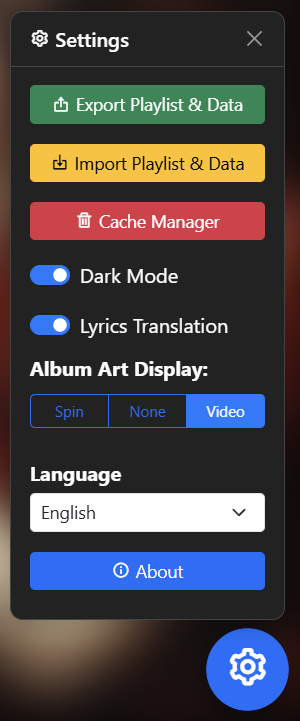
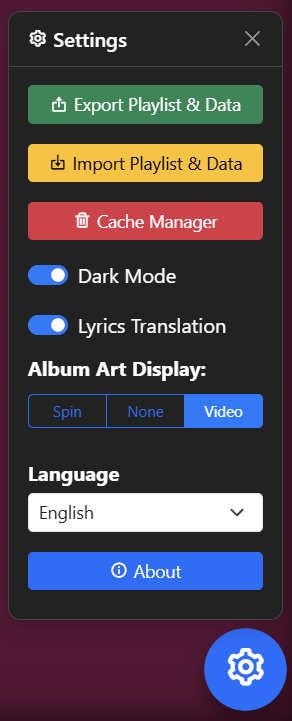
Update default playlist and configure Android splash window settings

diff --git a/android_build/www/script.js b/android_build/www/script.js
@@ -452,15 +452,15 @@ function loadPlaylist() {
     } else {
         // Default playlist if local storage is empty
         playlist = [
-            { videoId: 'oWRCXGvcU9s', songName: '愛くださいませ', authorName: 'NOT EQUAL ME', albumArt: 'https://i.ytimg.com/vi/oWRCXGvcU9s/hqdefault.jpg' },
-            { videoId: 'IBWxJxQxSHE', songName: '≠ME', authorName: 'NOT EQUAL ME', albumArt: 'https://i.ytimg.com/vi/IBWxJxQxSHE/hqdefault.jpg', lyricsTimeOffset: -3.0 },
-            { videoId: 'bi__z02xRgo', songName: 'チョコレートメランコリー', authorName: 'NOT EQUAL ME', albumArt: 'https://i.ytimg.com/vi/bi__z02xRgo/hqdefault.jpg' },
-            { videoId: '2RdTOBmz6jY', songName: '排他的ファイター', authorName: 'NOT EQUAL ME', albumArt: 'https://i.ytimg.com/vi/2RdTOBmz6jY/hqdefault.jpg', lyricsTimeOffset: -5.5 },
+            { videoId: 'sb_UQxk18Cc', songName: 'History Of The Band (OFFICIAL HIGE DANDISM LIVE at STADIUM 2025)', authorName: 'OFFICIAL HIGE DANDISM - Topic', albumArt: 'https://i.ytimg.com/vi/sb_UQxk18Cc/hqdefault.jpg', },
+            { videoId: 'uZtZ0Wvy3N8', songName: 'Official髭男dism - Stand By You [Official Live Video]', authorName: 'Official髭男dism', albumArt: 'https://i.ytimg.com/vi/uZtZ0Wvy3N8/hqdefault.jpg', },
+            { videoId: 'Hkd6NqfJsXE', songName: 'ノーダウト (OFFICIAL HIGE DANDISM LIVE at STADIUM 2025)', authorName: 'OFFICIAL HIGE DANDISM - Topic', albumArt: 'https://i.ytimg.com/vi/Hkd6NqfJsXE/hqdefault.jpg', },
             { videoId: 'TQ8WlA2GXbk', songName: 'Official髭男dism - Pretender［Official Video］', authorName: 'Official髭男dism', albumArt: 'https://i.ytimg.com/vi/TQ8WlA2GXbk/hqdefault.jpg' },
             { videoId: '0sDmhAItwbI', songName: 'Official髭男dism - Pretender (Acoustic ver.)［Official Video］', authorName: 'Official髭男dism', albumArt: 'https://i.ytimg.com/vi/0sDmhAItwbI/hqdefault.jpg', lyricsTimeOffset: 17.5 },
             { videoId: '22mOCjkwQjM', songName: 'Official髭男dism - Stand By You［Official Video］', authorName: 'Official髭男dism', albumArt: 'https://i.ytimg.com/vi/22mOCjkwQjM/hqdefault.jpg', lyricsTimeOffset: -2.0 },
             { videoId: '1oYzKnVG1Vk', songName: 'Official髭男dism - Stand By You (Acoustic ver.)［Official Video］', authorName: 'Official髭男dism', albumArt: 'https://i.ytimg.com/vi/1oYzKnVG1Vk/hqdefault.jpg', lyricsTimeOffset: -2.0 },
             { videoId: 'pkoxFpmiCWo', songName: 'Official髭男dism - パラボラ［Official Video］', authorName: 'Official髭男dism', albumArt: 'https://i.ytimg.com/vi/pkoxFpmiCWo/hqdefault.jpg' },
+            { videoId: '-kgOFJG881I', songName: 'Official髭男dism - 宿命［Official Video］', authorName: 'Official髭男dism', albumArt: 'https://i.ytimg.com/vi/-kgOFJG881I/hqdefault.jpg' },
             { videoId: 'ArjJj4cuOVo', songName: 'Laughter (ONLINE LIVE 2020 - Arena Travelers -)', authorName: 'OFFICIAL HIGE DANDISM - Topic', albumArt: 'https://i.ytimg.com/vi/ArjJj4cuOVo/hqdefault.jpg' },
             { videoId: 'cqzyiJE4SQE', songName: '笑顔の待つ場所', authorName: 'Official髭男dism', albumArt: 'https://i.ytimg.com/vi/cqzyiJE4SQE/hqdefault.jpg' },
             { videoId: 'P1iOKxg6JQk', songName: '明け方のゲッタウェイ (Live)', authorName: 'Official髭男dism', albumArt: 'https://i.ytimg.com/vi/P1iOKxg6JQk/hqdefault.jpg' },

diff --git a/script.js b/script.js
@@ -452,15 +452,15 @@ function loadPlaylist() {
     } else {
         // Default playlist if local storage is empty
         playlist = [
-            { videoId: 'oWRCXGvcU9s', songName: '愛くださいませ', authorName: 'NOT EQUAL ME', albumArt: 'https://i.ytimg.com/vi/oWRCXGvcU9s/hqdefault.jpg' },
-            { videoId: 'IBWxJxQxSHE', songName: '≠ME', authorName: 'NOT EQUAL ME', albumArt: 'https://i.ytimg.com/vi/IBWxJxQxSHE/hqdefault.jpg', lyricsTimeOffset: -3.0 },
-            { videoId: 'bi__z02xRgo', songName: 'チョコレートメランコリー', authorName: 'NOT EQUAL ME', albumArt: 'https://i.ytimg.com/vi/bi__z02xRgo/hqdefault.jpg' },
-            { videoId: '2RdTOBmz6jY', songName: '排他的ファイター', authorName: 'NOT EQUAL ME', albumArt: 'https://i.ytimg.com/vi/2RdTOBmz6jY/hqdefault.jpg', lyricsTimeOffset: -5.5 },
+            { videoId: 'sb_UQxk18Cc', songName: 'History Of The Band (OFFICIAL HIGE DANDISM LIVE at STADIUM 2025)', authorName: 'OFFICIAL HIGE DANDISM - Topic', albumArt: 'https://i.ytimg.com/vi/sb_UQxk18Cc/hqdefault.jpg', },
+            { videoId: 'uZtZ0Wvy3N8', songName: 'Official髭男dism - Stand By You [Official Live Video]', authorName: 'Official髭男dism', albumArt: 'https://i.ytimg.com/vi/uZtZ0Wvy3N8/hqdefault.jpg', },
+            { videoId: 'Hkd6NqfJsXE', songName: 'ノーダウト (OFFICIAL HIGE DANDISM LIVE at STADIUM 2025)', authorName: 'OFFICIAL HIGE DANDISM - Topic', albumArt: 'https://i.ytimg.com/vi/Hkd6NqfJsXE/hqdefault.jpg', },
             { videoId: 'TQ8WlA2GXbk', songName: 'Official髭男dism - Pretender［Official Video］', authorName: 'Official髭男dism', albumArt: 'https://i.ytimg.com/vi/TQ8WlA2GXbk/hqdefault.jpg' },
             { videoId: '0sDmhAItwbI', songName: 'Official髭男dism - Pretender (Acoustic ver.)［Official Video］', authorName: 'Official髭男dism', albumArt: 'https://i.ytimg.com/vi/0sDmhAItwbI/hqdefault.jpg', lyricsTimeOffset: 17.5 },
             { videoId: '22mOCjkwQjM', songName: 'Official髭男dism - Stand By You［Official Video］', authorName: 'Official髭男dism', albumArt: 'https://i.ytimg.com/vi/22mOCjkwQjM/hqdefault.jpg', lyricsTimeOffset: -2.0 },
             { videoId: '1oYzKnVG1Vk', songName: 'Official髭男dism - Stand By You (Acoustic ver.)［Official Video］', authorName: 'Official髭男dism', albumArt: 'https://i.ytimg.com/vi/1oYzKnVG1Vk/hqdefault.jpg', lyricsTimeOffset: -2.0 },
             { videoId: 'pkoxFpmiCWo', songName: 'Official髭男dism - パラボラ［Official Video］', authorName: 'Official髭男dism', albumArt: 'https://i.ytimg.com/vi/pkoxFpmiCWo/hqdefault.jpg' },
+            { videoId: '-kgOFJG881I', songName: 'Official髭男dism - 宿命［Official Video］', authorName: 'Official髭男dism', albumArt: 'https://i.ytimg.com/vi/-kgOFJG881I/hqdefault.jpg' },
             { videoId: 'ArjJj4cuOVo', songName: 'Laughter (ONLINE LIVE 2020 - Arena Travelers -)', authorName: 'OFFICIAL HIGE DANDISM - Topic', albumArt: 'https://i.ytimg.com/vi/ArjJj4cuOVo/hqdefault.jpg' },
             { videoId: 'cqzyiJE4SQE', songName: '笑顔の待つ場所', authorName: 'Official髭男dism', albumArt: 'https://i.ytimg.com/vi/cqzyiJE4SQE/hqdefault.jpg' },
             { videoId: 'P1iOKxg6JQk', songName: '明け方のゲッタウェイ (Live)', authorName: 'Official髭男dism', albumArt: 'https://i.ytimg.com/vi/P1iOKxg6JQk/hqdefault.jpg' },